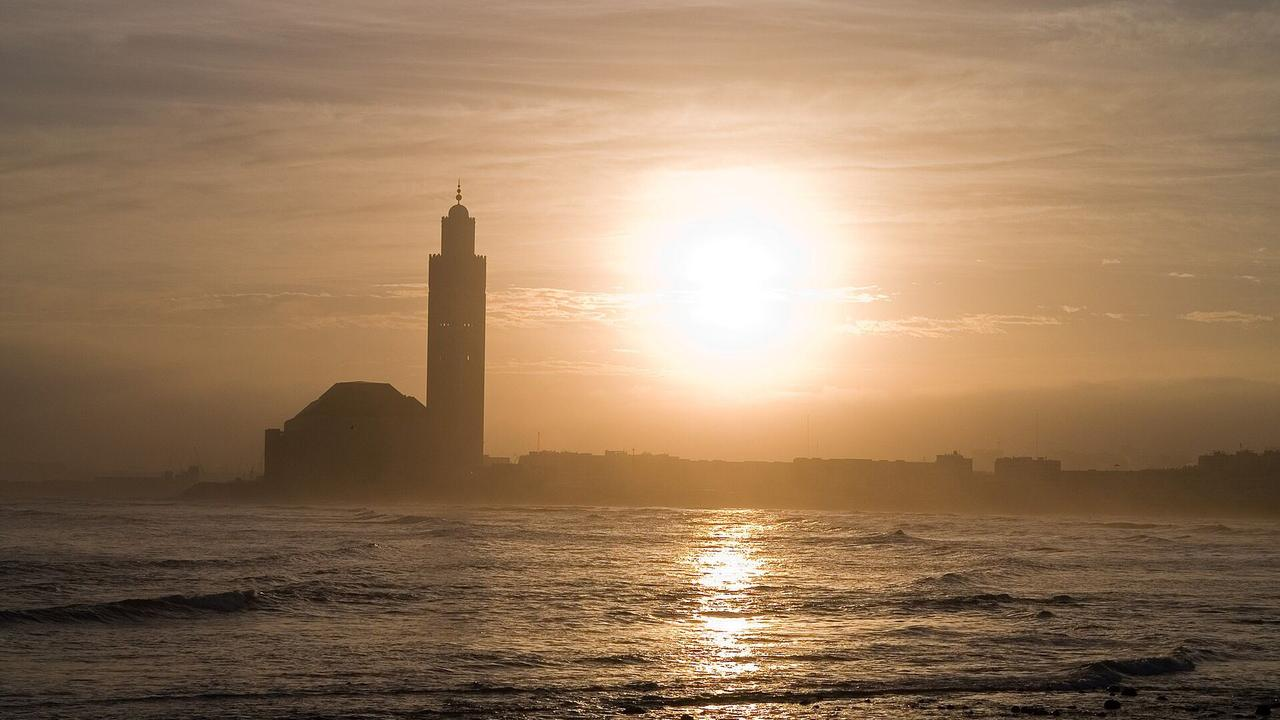
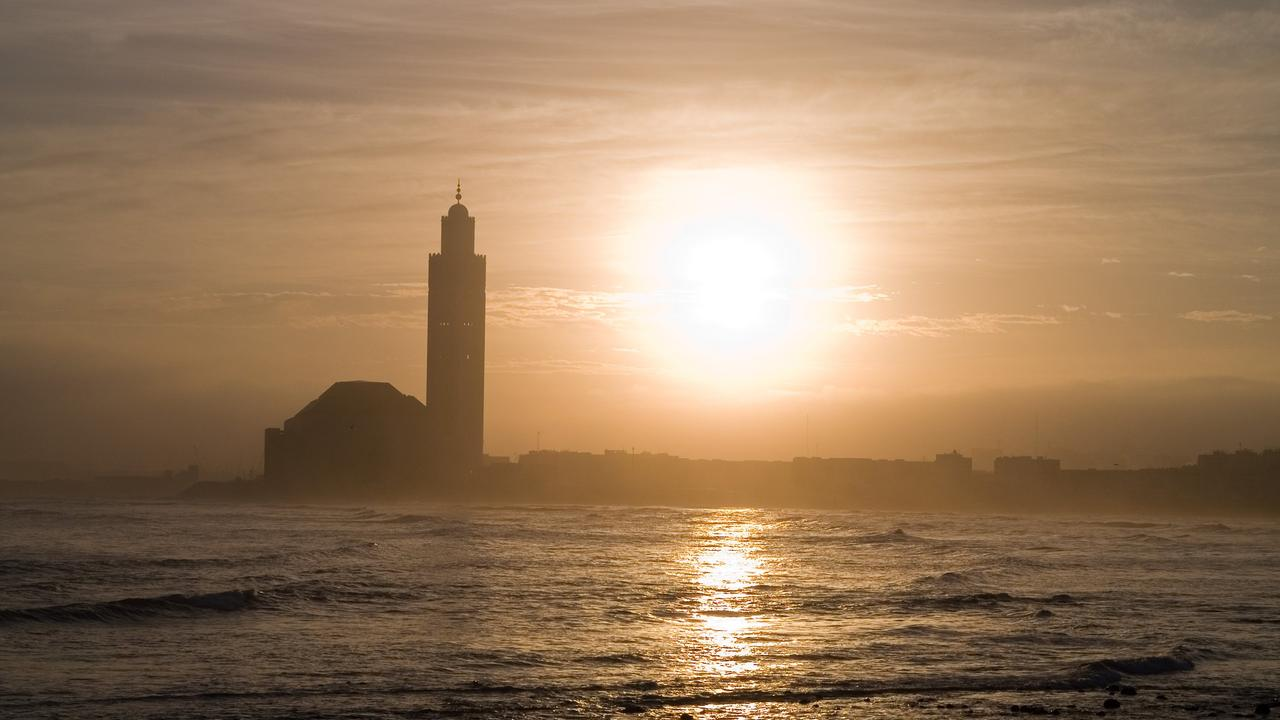
Update the README and demo page for the bigger library and 4K pictures

Changed region(s): [[0.1562, 0.7028, 1.0, 1.0], [0.125, 0.9472, 0.1562, 0.9778], [0.125, 0.8861, 0.1562, 0.9167]]

diff --git a/docs/index.html b/docs/index.html
@@ -210,7 +210,7 @@ h2{font-size:clamp(28px,3.6vw,44px);font-weight:300;letter-spacing:-.035em;line-
   <span class="eyebrow">Free · Windows 10 &amp; 11</span>
   <h1>Miqaat Wallpaper.<br><em>Your desktop, in rhythm with salah.</em></h1>
   <p class="lead">A calm wallpaper for Windows. Prayer times from the Miqaat API, one authentic reminder at a time with its source, and special days marked only where the evidence is sound. Written in Rust; about 30 MB of memory.</p>
-  <div class="cta"><a class="dl" href="https://github.com/Saimon8420/miqaat-wallpaper/releases/latest/download/MiqaatWallpaper-Setup.exe">Download for Windows<span>MiqaatWallpaper-Setup.exe · 14 MB</span></a><a class="gh" href="https://github.com/Saimon8420/miqaat-wallpaper">Source on GitHub</a><a class="gh" href="#install">How to install</a></div>
+  <div class="cta"><a class="dl" href="https://github.com/Saimon8420/miqaat-wallpaper/releases/latest/download/MiqaatWallpaper-Setup.exe">Download for Windows<span>MiqaatWallpaper-Setup.exe · 30 MB</span></a><a class="gh" href="https://github.com/Saimon8420/miqaat-wallpaper">Source on GitHub</a><a class="gh" href="#install">How to install</a></div>
 
   <div class="bezel"><div class="screen" id="screen">
     <div class="photo" id="ph"></div>
@@ -348,10 +348,10 @@ h2{font-size:clamp(28px,3.6vw,44px);font-weight:300;letter-spacing:-.035em;line-
     <h2>Where the words come from,<br>and when things refresh.</h2>
     <div class="bento">
       <div class="cell b6"><div class="core"><span class="tag">Source</span><h3>A library that ships inside the app</h3><ul>
-        <li><b>Quran:</b> the <i>holy-quran</i> library (MIT): Hafs text with English (Sahih International) and Bangla translations; 45 short, complete verses chosen for a wallpaper</li>
-        <li><b>Hadith:</b> the free <i>hadith-api</i> (public domain) in Arabic, English and Bangla: 34 hadith from Bukhari, Muslim, Tirmidhi and an-Nawawi's Forty, each with its grading</li>
-        <li><b>Duas, dhikr, istighfar and durood:</b> 76 items from Hisn al-Muslim (Fortress of the Muslim), with the book's item number on each</li>
-        <li>All of it is one 190 KB file built into the app, so reminders never need the internet</li></ul></div></div>
+        <li><b>Quran:</b> the <i>holy-quran</i> library (MIT): Hafs text with English (Sahih International) and Bangla translations; 165 short, complete verses chosen for a wallpaper</li>
+        <li><b>Hadith:</b> the free <i>hadith-api</i> (public domain) in Arabic, English and Bangla: 138 hadith from Bukhari, Muslim, Tirmidhi and an-Nawawi's Forty, each with its grading</li>
+        <li><b>Duas, dhikr, istighfar and durood:</b> 125 items from Hisn al-Muslim (Fortress of the Muslim), with the book's item number on each</li>
+        <li>All of it is one 650 KB file built into the app, so reminders never need the internet</li></ul></div></div>
       <div class="cell b6"><div class="core"><span class="tag">Choosing</span><h3>How each reminder is picked</h3><ul>
         <li>Each kind (dua, dhikr, verse, hadith…) has its own shuffled deck, so nothing repeats until the whole deck has been shown</li>
         <li>The time of day comes first: morning adhkar after Fajr, adhkar for 15 minutes after each salah, evening adhkar after Asr, duas before sleep at night</li>
@@ -372,7 +372,7 @@ h2{font-size:clamp(28px,3.6vw,44px);font-weight:300;letter-spacing:-.035em;line-
     <span class="eyebrow">Install</span>
     <h2>One download.<br>No admin, no account.</h2>
     <div class="steps">
-      <div><span>01</span><p><b>Download</b> <a href="https://github.com/Saimon8420/miqaat-wallpaper/releases/latest/download/MiqaatWallpaper-Setup.exe">MiqaatWallpaper-Setup.exe</a> (about 14 MB) from the latest release.</p></div>
+      <div><span>01</span><p><b>Download</b> <a href="https://github.com/Saimon8420/miqaat-wallpaper/releases/latest/download/MiqaatWallpaper-Setup.exe">MiqaatWallpaper-Setup.exe</a> (about 30 MB) from the latest release.</p></div>
       <div><span>02</span><p><b>Run it.</b> Windows may show "Windows protected your PC" because the app is new and not code-signed: click <i>More info</i>, then <i>Run anyway</i>.</p></div>
       <div><span>03</span><p><b>Choose Yes</b> to install for your account only. It copies itself to your user folder, adds a Start menu entry and starts with Windows. Choose <i>No</i> to just try it once.</p></div>
       <div><span>04</span><p><b>Set your city.</b> Settings open on first run; later, right-click the moon icon near the clock. Changes show on the wallpaper straight away.</p></div>

diff --git a/tools/site/build_site.py b/tools/site/build_site.py
@@ -41,7 +41,7 @@ ed('<span class="eyebrow">Proposal · Desktop</span>', '<span class="eyebrow">Fr
 ed("<h1>Miqaat Live Wallpaper.<br>", "<h1>Miqaat Wallpaper.<br>")
 ed('Written in Rust to use almost no memory.</p>',
    'Written in Rust; about 30 MB of memory.</p>\n'
-   f'  <div class="cta"><a class="dl" href="{DL}">Download for Windows<span>MiqaatWallpaper-Setup.exe · 14 MB</span></a>'
+   f'  <div class="cta"><a class="dl" href="{DL}">Download for Windows<span>MiqaatWallpaper-Setup.exe · 30 MB</span></a>'
    f'<a class="gh" href="{GH}">Source on GitHub</a><a class="gh" href="#install">How to install</a></div>')
 ed("The settings above are live in this preview: city, method, Asr time and Hijri date fetch real times from the Miqaat API.",
    "This page is a live preview of the app: city, method, Asr time and Hijri date fetch real times from the Miqaat API. The real wallpaper draws the same thing natively, behind your desktop icons.")
@@ -51,13 +51,13 @@ ed('<div class="me">Rust (chosen)<span>~25 MB</span>', '<div class="me">Rust (th
 ed("No text will be typed from memory. The Quran comes from the Tanzil verified Uthmani text; hadith only from collections with their grading shown; adhkar from Hisn al-Muslim with references. Days whose special worship is disputed are not presented as worship days. Each dataset's licence is checked before use.",
    "No text was typed from memory: every word is pulled from published datasets by a build script, and only the references were chosen by hand. Hadith come only from collections with their grading shown; adhkar from Hisn al-Muslim with item numbers. Days whose special worship is disputed are not presented as worship days.")
 ed("<li><b>Quran:</b> the same source as your al-kitab app: the <i>holy-quran</i> library (MIT), Hafs text with English (Sahih International) and Bangla translations, all 6,236 verses</li>",
-   "<li><b>Quran:</b> the <i>holy-quran</i> library (MIT): Hafs text with English (Sahih International) and Bangla translations; 45 short, complete verses chosen for a wallpaper</li>")
+   "<li><b>Quran:</b> the <i>holy-quran</i> library (MIT): Hafs text with English (Sahih International) and Bangla translations; 165 short, complete verses chosen for a wallpaper</li>")
 ed("<li><b>Hadith:</b> the free <i>hadith-api</i> (public domain): Bukhari, Muslim, Abu Dawud, Tirmidhi, Nasa'i, Ibn Majah and Malik in Arabic, English and Bangla, with gradings. Every hadith we show is cross-checked against sunnah.com</li>",
-   "<li><b>Hadith:</b> the free <i>hadith-api</i> (public domain) in Arabic, English and Bangla: 34 hadith from Bukhari, Muslim, Tirmidhi and an-Nawawi's Forty, each with its grading</li>")
+   "<li><b>Hadith:</b> the free <i>hadith-api</i> (public domain) in Arabic, English and Bangla: 138 hadith from Bukhari, Muslim, Tirmidhi and an-Nawawi's Forty, each with its grading</li>")
 ed("<li><b>Duas, dhikr, istighfar, durood and what to do on each day:</b> our own library, written from the Quran and hadith with a reference on every item, and checked by you before release</li>",
-   "<li><b>Duas, dhikr, istighfar and durood:</b> 76 items from Hisn al-Muslim (Fortress of the Muslim), with the book's item number on each</li>")
+   "<li><b>Duas, dhikr, istighfar and durood:</b> 125 items from Hisn al-Muslim (Fortress of the Muslim), with the book's item number on each</li>")
 ed("<li>All of it is packed into one small offline file (about 3–5 MB), so nothing needs the internet</li>",
-   "<li>All of it is one 190 KB file built into the app, so reminders never need the internet</li>")
+   "<li>All of it is one 650 KB file built into the app, so reminders never need the internet</li>")
 
 # Plan + decisions -> install section
 start = s.index('  <section>\n    <span class="eyebrow">Plan</span>')
@@ -66,7 +66,7 @@ install = f'''  <section id="install">
     <span class="eyebrow">Install</span>
     <h2>One download.<br>No admin, no account.</h2>
     <div class="steps">
-      <div><span>01</span><p><b>Download</b> <a href="{DL}">MiqaatWallpaper-Setup.exe</a> (about 14 MB) from the latest release.</p></div>
+      <div><span>01</span><p><b>Download</b> <a href="{DL}">MiqaatWallpaper-Setup.exe</a> (about 30 MB) from the latest release.</p></div>
       <div><span>02</span><p><b>Run it.</b> Windows may show "Windows protected your PC" because the app is new and not code-signed: click <i>More info</i>, then <i>Run anyway</i>.</p></div>
       <div><span>03</span><p><b>Choose Yes</b> to install for your account only. It copies itself to your user folder, adds a Start menu entry and starts with Windows. Choose <i>No</i> to just try it once.</p></div>
       <div><span>04</span><p><b>Set your city.</b> Settings open on first run; later, right-click the moon icon near the clock. Changes show on the wallpaper straight away.</p></div>

diff --git a/README.md b/README.md
@@ -35,7 +35,7 @@ The **[live demo](https://saimon8420.github.io/miqaat-wallpaper/)** is an intera
 
 ## Install
 
-1. **Download** [`MiqaatWallpaper-Setup.exe`](https://github.com/Saimon8420/miqaat-wallpaper/releases/latest/download/MiqaatWallpaper-Setup.exe) (about 14 MB) from the [latest release](https://github.com/Saimon8420/miqaat-wallpaper/releases/latest).
+1. **Download** [`MiqaatWallpaper-Setup.exe`](https://github.com/Saimon8420/miqaat-wallpaper/releases/latest/download/MiqaatWallpaper-Setup.exe) (about 30 MB) from the [latest release](https://github.com/Saimon8420/miqaat-wallpaper/releases/latest).
 2. **Run it.** Windows may say *"Windows protected your PC"* because the app is new and not code-signed. Click **More info**, then **Run anyway**.
 3. **Choose Yes** to install for your account only. No admin rights are needed. It copies itself to `%LOCALAPPDATA%\Programs\Miqaat Wallpaper`, adds a Start menu entry and starts with Windows. Choose **No** to just try it once without installing.
 4. **Set your city.** The settings window opens on the first run. After that, right-click the moon icon near the clock in the taskbar and choose **Settings…**. Every change shows on the wallpaper straight away.
@@ -61,17 +61,17 @@ No text was typed from memory. A build script pulls every word from published da
 
 | | Source | Count |
 |---|---|---|
-| Quran | [holy-quran](https://www.npmjs.com/package/holy-quran) (MIT): Hafs text, Sahih International English, Bangla | 45 short, complete verses |
-| Hadith | [hadith-api](https://github.com/fawazahmed0/hadith-api) (public domain), with gradings | 34 from Bukhari, Muslim, Tirmidhi and an-Nawawi's Forty |
-| Adhkar | *Hisn al-Muslim* via [hisnmuslim.com](https://www.hisnmuslim.com), with item numbers | 76 duas, dhikr, istighfar and durood |
+| Quran | [holy-quran](https://www.npmjs.com/package/holy-quran) (MIT): Hafs text, Sahih International English, Bangla | 165 short, complete verses |
+| Hadith | [hadith-api](https://github.com/fawazahmed0/hadith-api) (public domain), with gradings | 138 from Bukhari, Muslim, Tirmidhi and all of an-Nawawi's Forty |
+| Adhkar | *Hisn al-Muslim* via [hisnmuslim.com](https://www.hisnmuslim.com), with item numbers | 125 duas, dhikr, istighfar and durood, all with Bangla |
 
-The library is a 190 KB file built into the app, so reminders never need the internet. Prayer times are fetched once a month and saved. If you're offline, the saved month keeps working.
+The library is a 650 KB file built into the app, so reminders never need the internet. Prayer times are fetched once a month and saved. If you're offline, the saved month keeps working.
 
 Days whose special worship is disputed are deliberately left out.
 
 ## How it works
 
-- **Rust + Win32**, with no web view and no runtime. One 14 MB exe holds the photos, fonts and content.
+- **Rust + Win32**, with no web view and no runtime. One 30 MB exe holds the photos (up to 4K), fonts and content.
 - **Behind the icons.** The wallpaper window is a child of Explorer's desktop `WorkerW`. On Windows 11 24H2 and later, that window sits inside `Progman` and the desktop has no GDI surface, so the wallpaper is a layered child window.
 - **Drawn in software** with Direct2D and DirectWrite on the CPU. A GPU render target would load the graphics driver into the process (about 100 MB). Each photo is decoded once at the monitor's size.
 - **Small repaints.** The text panel redraws once a minute and the whole picture only when the light changes. With those options on, only the clock redraws each second and only the system strip every 2 seconds. Nothing redraws while a full-screen game or video is running.
